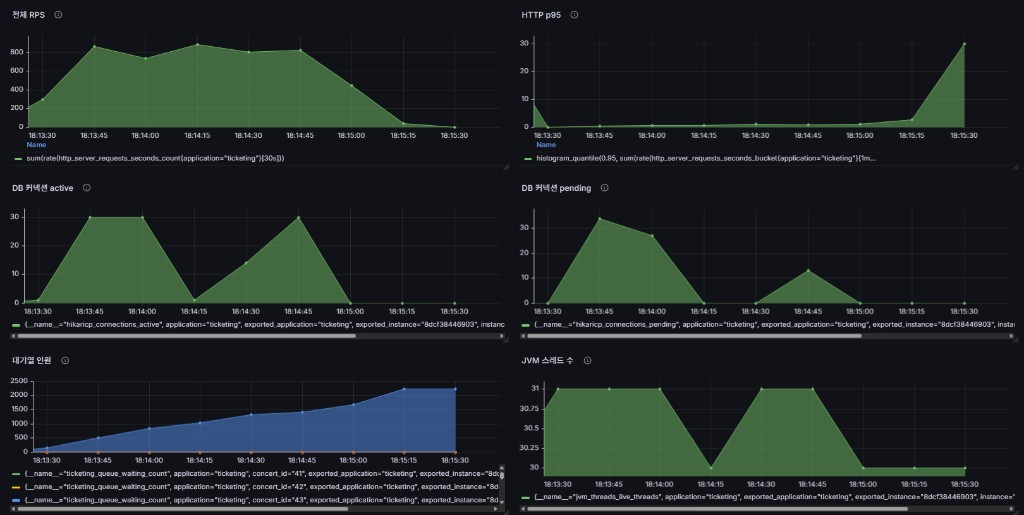
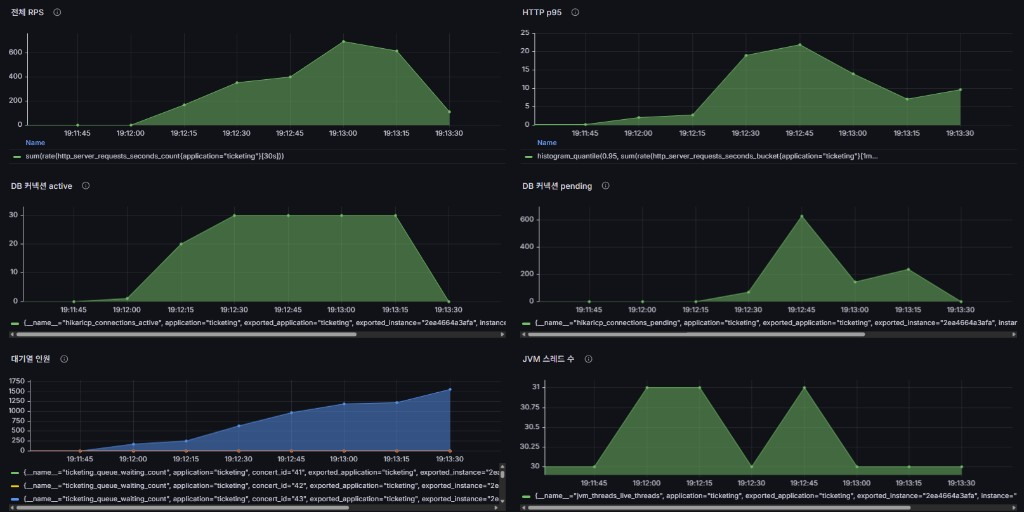
테스트를 위해 캐시런 삭제(원복)

diff --git a/src/main/java/com/inyoung/ticketing/seat/service/SeatService.java b/src/main/java/com/inyoung/ticketing/seat/service/SeatService.java
@@ -2,14 +2,11 @@ package com.inyoung.ticketing.seat.service;
 
 import java.util.List;
 import java.util.Set;
-import com.inyoung.ticketing.cache.CacheNames;
 import com.inyoung.ticketing.hold.store.HoldStore;
 import com.inyoung.ticketing.seat.domain.Seat;
 import com.inyoung.ticketing.seat.domain.SeatStatus;
 import com.inyoung.ticketing.seat.dto.SeatResponse;
 import com.inyoung.ticketing.seat.repository.SeatRepository;
-import org.springframework.cache.CacheManager;
-import org.springframework.cache.annotation.Cacheable;
 import org.springframework.stereotype.Service;
 
 // 좌석 조회 서비스.
@@ -19,12 +16,10 @@ import org.springframework.stereotype.Service;
 public class SeatService {
 	private final SeatRepository seatRepository;
 	private final HoldStore holdStore;
-	private final CacheManager cacheManager;
 
-	public SeatService(SeatRepository seatRepository, HoldStore holdStore, CacheManager cacheManager) {
+	public SeatService(SeatRepository seatRepository, HoldStore holdStore) {
 		this.seatRepository = seatRepository;
 		this.holdStore = holdStore;
-		this.cacheManager = cacheManager;
 	}
 
 	// DB 좌석 목록을 조회한 뒤, Redis에서 현재 홀드 중인 좌석 ID를 가져와 상태를 오버레이한다.
@@ -58,28 +53,16 @@ public class SeatService {
 	}
 
 	/**
-	 * GET /api/queue/status 폴링용 — 짧은 TTL Redis 캐시(RedisConfig)로 DB 왕복을 줄인다.
+	 * GET /api/queue/status 폴링용 — 매 요청마다 집계(DB+Redis). (잔여석 Redis 캐시 미사용 시)
 	 */
-	@Cacheable(cacheNames = CacheNames.AVAILABLE_SEAT_COUNT, key = "#concertId")
 	public long countAvailableSeatsForQueueStatus(Long concertId) {
 		return computeAvailableSeats(concertId);
 	}
 
 	/**
-	 * POST /api/queue/enter 의 즉시 입장 판단 등 — 캐시 없이 최신 값.
+	 * POST /api/queue/enter 의 즉시 입장 판단 등 — 최신 값.
 	 */
 	public long countAvailableSeatsForDecision(Long concertId) {
 		return computeAvailableSeats(concertId);
-	}
-
-	/** 홀드/예약/만료 등 잔여석이 바뀔 때 캐시 무효화 */
-	public void evictAvailableSeatCount(Long concertId) {
-		if (concertId == null) {
-			return;
-		}
-		var cache = cacheManager.getCache(CacheNames.AVAILABLE_SEAT_COUNT);
-		if (cache != null) {
-			cache.evict(concertId);
-		}
 	}
 }

diff --git a/src/main/java/com/inyoung/ticketing/hold/service/HoldService.java b/src/main/java/com/inyoung/ticketing/hold/service/HoldService.java
@@ -22,7 +22,6 @@ import com.inyoung.ticketing.metrics.HoldReleaseMetrics;
 import com.inyoung.ticketing.seat.domain.Seat;
 import com.inyoung.ticketing.seat.domain.SeatStatus;
 import com.inyoung.ticketing.seat.repository.SeatRepository;
-import com.inyoung.ticketing.seat.service.SeatService;
 import io.micrometer.core.instrument.Counter;
 import io.micrometer.core.instrument.MeterRegistry;
 import org.springframework.http.HttpStatus;
@@ -42,7 +41,6 @@ public class HoldService {
 	private final HoldStore holdStore;
 	private final SeatHoldEventPublisher eventPublisher;
 	private final HoldReleaseMetrics holdReleaseMetrics;
-	private final SeatService seatService;
 	private final Counter holdCreatedCounter;
 	private final Counter lockFailureCounter;
 	private final Counter holdConflictCounter;
@@ -55,7 +53,6 @@ public class HoldService {
 		HoldStore holdStore,
 		SeatHoldEventPublisher eventPublisher,
 		HoldReleaseMetrics holdReleaseMetrics,
-		SeatService seatService,
 		MeterRegistry meterRegistry
 	) {
 		this.seatRepository = seatRepository;
@@ -65,7 +62,6 @@ public class HoldService {
 		this.holdStore = holdStore;
 		this.eventPublisher = eventPublisher;
 		this.holdReleaseMetrics = holdReleaseMetrics;
-		this.seatService = seatService;
 		this.holdCreatedCounter = Counter.builder("ticketing_hold_created_total")
 			.tag("status", "success")
 			.description("Number of seat holds created successfully")
@@ -143,7 +139,6 @@ public class HoldService {
 			}
 			eventPublisher.publish(SeatHoldEventType.HOLD_CREATED, info);
 			holdCreatedCounter.increment();
-			seatService.evictAvailableSeatCount(concert.getId());
 			return new HoldResponse(holdToken, expiresAt);
 		} finally {
 			lockService.unlock(lockKey, lockToken.get());
@@ -163,7 +158,6 @@ public class HoldService {
 		holdStore.releaseHold(holdToken);
 		holdReleaseMetrics.recordReleased("cancelled");
 		eventPublisher.publish(SeatHoldEventType.HOLD_CANCELED, info);
-		seatService.evictAvailableSeatCount(info.getConcertId());
 	}
 
 	/** 로그인 사용자의 예약 중인 홀드 목록 (공연·좌석 정보 포함) */

diff --git a/src/main/java/com/inyoung/ticketing/reservation/service/ReservationService.java b/src/main/java/com/inyoung/ticketing/reservation/service/ReservationService.java
@@ -23,7 +23,6 @@ import com.inyoung.ticketing.reservation.repository.ReservationRepository;
 import com.inyoung.ticketing.seat.domain.Seat;
 import com.inyoung.ticketing.seat.domain.SeatStatus;
 import com.inyoung.ticketing.seat.repository.SeatRepository;
-import com.inyoung.ticketing.seat.service.SeatService;
 import io.micrometer.core.instrument.Counter;
 import io.micrometer.core.instrument.MeterRegistry;
 import org.springframework.context.ApplicationEventPublisher;
@@ -45,7 +44,6 @@ public class ReservationService {
 	private final ApplicationEventPublisher applicationEventPublisher;
 	private final KafkaOutboxService kafkaOutboxService;
 	private final PaymentRepository paymentRepository;
-	private final SeatService seatService;
 	private final Counter lockFailureCounter;
 	private final MeterRegistry meterRegistry;
 
@@ -58,7 +56,6 @@ public class ReservationService {
 		ApplicationEventPublisher applicationEventPublisher,
 		KafkaOutboxService kafkaOutboxService,
 		PaymentRepository paymentRepository,
-		SeatService seatService,
 		MeterRegistry meterRegistry
 	) {
 		this.seatRepository = seatRepository;
@@ -69,7 +66,6 @@ public class ReservationService {
 		this.applicationEventPublisher = applicationEventPublisher;
 		this.kafkaOutboxService = kafkaOutboxService;
 		this.paymentRepository = paymentRepository;
-		this.seatService = seatService;
 		this.lockFailureCounter = Counter.builder("ticketing_lock_acquire_failures_total")
 			.tag("operation", "reservation")
 			.description("Number of lock acquire failures when confirming reservation")
@@ -205,6 +201,5 @@ public class ReservationService {
 		Seat seat = reservation.getSeat();
 		seat.setStatus(SeatStatus.AVAILABLE);
 		seatRepository.save(seat);
-		seatService.evictAvailableSeatCount(reservation.getConcert().getId());
 	}
 }

diff --git a/src/main/java/com/inyoung/ticketing/scheduler/HoldCleanupScheduler.java b/src/main/java/com/inyoung/ticketing/scheduler/HoldCleanupScheduler.java
@@ -12,7 +12,6 @@ import com.inyoung.ticketing.hold.store.HoldPayload;
 import com.inyoung.ticketing.hold.store.HoldStore;
 import com.inyoung.ticketing.lock.LockService;
 import com.inyoung.ticketing.metrics.HoldReleaseMetrics;
-import com.inyoung.ticketing.seat.service.SeatService;
 import io.micrometer.core.instrument.Counter;
 import io.micrometer.core.instrument.MeterRegistry;
 import io.micrometer.core.instrument.Timer;
@@ -35,7 +34,6 @@ public class HoldCleanupScheduler {
 	private final HoldReleaseMetrics holdReleaseMetrics;
 	private final LockService lockService;
 	private final TicketingProperties properties;
-	private final SeatService seatService;
 	private final Timer runTimer;
 	private final Counter successCounter;
 	private final Counter failureCounter;
@@ -46,7 +44,6 @@ public class HoldCleanupScheduler {
 		HoldReleaseMetrics holdReleaseMetrics,
 		LockService lockService,
 		TicketingProperties properties,
-		SeatService seatService,
 		MeterRegistry registry
 	) {
 		this.holdStore = holdStore;
@@ -54,7 +51,6 @@ public class HoldCleanupScheduler {
 		this.holdReleaseMetrics = holdReleaseMetrics;
 		this.lockService = lockService;
 		this.properties = properties;
-		this.seatService = seatService;
 		this.runTimer = Timer.builder("ticketing_batch_run_duration_seconds")
 			.tag("batch", BATCH_NAME)
 			.description("Hold cleanup batch run duration")
@@ -104,7 +100,6 @@ public class HoldCleanupScheduler {
 					holdStore.releaseByPayload(payload.info(), payload.payload());
 					holdReleaseMetrics.recordReleased("timeout");
 					eventPublisher.publish(SeatHoldEventType.HOLD_EXPIRED, payload.info());
-					seatService.evictAvailableSeatCount(payload.info().getConcertId());
 				});
 			}
 		}

diff --git a/src/main/java/com/inyoung/ticketing/reservation/event/ReservationConfirmedEventListener.java b/src/main/java/com/inyoung/ticketing/reservation/event/ReservationConfirmedEventListener.java
@@ -2,7 +2,6 @@ package com.inyoung.ticketing.reservation.event;
 
 import com.inyoung.ticketing.hold.store.HoldStore;
 import com.inyoung.ticketing.metrics.HoldReleaseMetrics;
-import com.inyoung.ticketing.seat.service.SeatService;
 import org.springframework.stereotype.Component;
 import org.springframework.transaction.event.TransactionPhase;
 import org.springframework.transaction.event.TransactionalEventListener;
@@ -21,16 +20,13 @@ public class ReservationConfirmedEventListener {
 
 	private final HoldStore holdStore;
 	private final HoldReleaseMetrics holdReleaseMetrics;
-	private final SeatService seatService;
 
 	public ReservationConfirmedEventListener(
 		HoldStore holdStore,
-		HoldReleaseMetrics holdReleaseMetrics,
-		SeatService seatService
+		HoldReleaseMetrics holdReleaseMetrics
 	) {
 		this.holdStore = holdStore;
 		this.holdReleaseMetrics = holdReleaseMetrics;
-		this.seatService = seatService;
 	}
 
 	/** 트랜잭션 커밋 성공 후 단일 스레드에서 호출된다(동기 이벤트 디스패치 기본). */
@@ -38,6 +34,5 @@ public class ReservationConfirmedEventListener {
 	public void onReservationConfirmed(ReservationConfirmedEvent event) {
 		holdStore.releaseHold(event.holdToken());
 		holdReleaseMetrics.recordReleased("confirmed");
-		seatService.evictAvailableSeatCount(event.holdInfo().getConcertId());
 	}
 }

diff --git a/src/main/java/com/inyoung/ticketing/config/RedisConfig.java b/src/main/java/com/inyoung/ticketing/config/RedisConfig.java
@@ -2,7 +2,6 @@ package com.inyoung.ticketing.config;
 
 import java.time.Duration;
 import com.fasterxml.jackson.databind.ObjectMapper;
-import com.inyoung.ticketing.cache.CacheNames;
 import com.fasterxml.jackson.databind.SerializationFeature;
 import com.fasterxml.jackson.datatype.jsr310.JavaTimeModule;
 import org.springframework.context.annotation.Bean;
@@ -15,7 +14,7 @@ import org.springframework.data.redis.serializer.RedisSerializationContext;
 
 // Redis 캐시 매니저 설정.
 // Instant 등 Java time 타입을 JSON 직렬화하기 위해 JavaTimeModule 을 등록하고,
-// 기본 TTL 5분(콘서트 목록 등), 잔여석 집계(대기열 status 폴링)는 2초로 짧게 둔다.
+// 기본 TTL 5분(콘서트 목록 등).
 @Configuration
 public class RedisConfig {
 	@Bean
@@ -32,13 +31,8 @@ public class RedisConfig {
 			.serializeValuesWith(valueSerializer)
 			.entryTtl(Duration.ofMinutes(5));
 
-		RedisCacheConfiguration queueStatusSeatCount = RedisCacheConfiguration.defaultCacheConfig()
-			.serializeValuesWith(valueSerializer)
-			.entryTtl(Duration.ofSeconds(2));
-
 		return RedisCacheManager.builder(connectionFactory)
 			.cacheDefaults(defaultConfig)
-			.withCacheConfiguration(CacheNames.AVAILABLE_SEAT_COUNT, queueStatusSeatCount)
 			.build();
 	}
 }

diff --git a/src/test/java/com/inyoung/ticketing/hold/service/HoldServiceTest.java b/src/test/java/com/inyoung/ticketing/hold/service/HoldServiceTest.java
@@ -20,7 +20,6 @@ import com.inyoung.ticketing.metrics.HoldReleaseMetrics;
 import com.inyoung.ticketing.seat.domain.Seat;
 import com.inyoung.ticketing.seat.domain.SeatStatus;
 import com.inyoung.ticketing.seat.repository.SeatRepository;
-import com.inyoung.ticketing.seat.service.SeatService;
 import io.micrometer.core.instrument.simple.SimpleMeterRegistry;
 import org.junit.jupiter.api.BeforeEach;
 import org.junit.jupiter.api.Test;
@@ -49,8 +48,6 @@ class HoldServiceTest {
 	private SeatHoldEventPublisher eventPublisher;
 	@Mock
 	private HoldReleaseMetrics holdReleaseMetrics;
-	@Mock
-	private SeatService seatService;
 
 	private TicketingProperties properties;
 	private HoldService holdService;
@@ -72,7 +69,6 @@ class HoldServiceTest {
 			holdStore,
 			eventPublisher,
 			holdReleaseMetrics,
-			seatService,
 			new SimpleMeterRegistry()
 		);
 	}
@@ -138,7 +134,6 @@ class HoldServiceTest {
 		assertThat(response.holdToken()).isNotBlank();
 		assertThat(response.expiresAt()).isAfter(Instant.now());
 		verify(lockService).unlock(eq("lock:seat:" + SEAT_ID), eq("lock-token"));
-		verify(seatService).evictAvailableSeatCount(CONCERT_ID);
 	}
 
 	private Seat seat() {

diff --git a/src/main/java/com/inyoung/ticketing/cache/CacheNames.java b/src/main/java/com/inyoung/ticketing/cache/CacheNames.java
@@ -4,8 +4,6 @@ package com.inyoung.ticketing.cache;
 public final class CacheNames {
 	public static final String CONCERT_LIST = "concerts";
 	public static final String SEAT_LIST = "seats";
-	/** GET /api/queue/status 폴링용 잔여석 수 — Redis 캐시, 짧은 TTL(RedisConfig) */
-	public static final String AVAILABLE_SEAT_COUNT = "availableSeatCount";
 
 	// 인스턴스화 방지
 	private CacheNames() {
